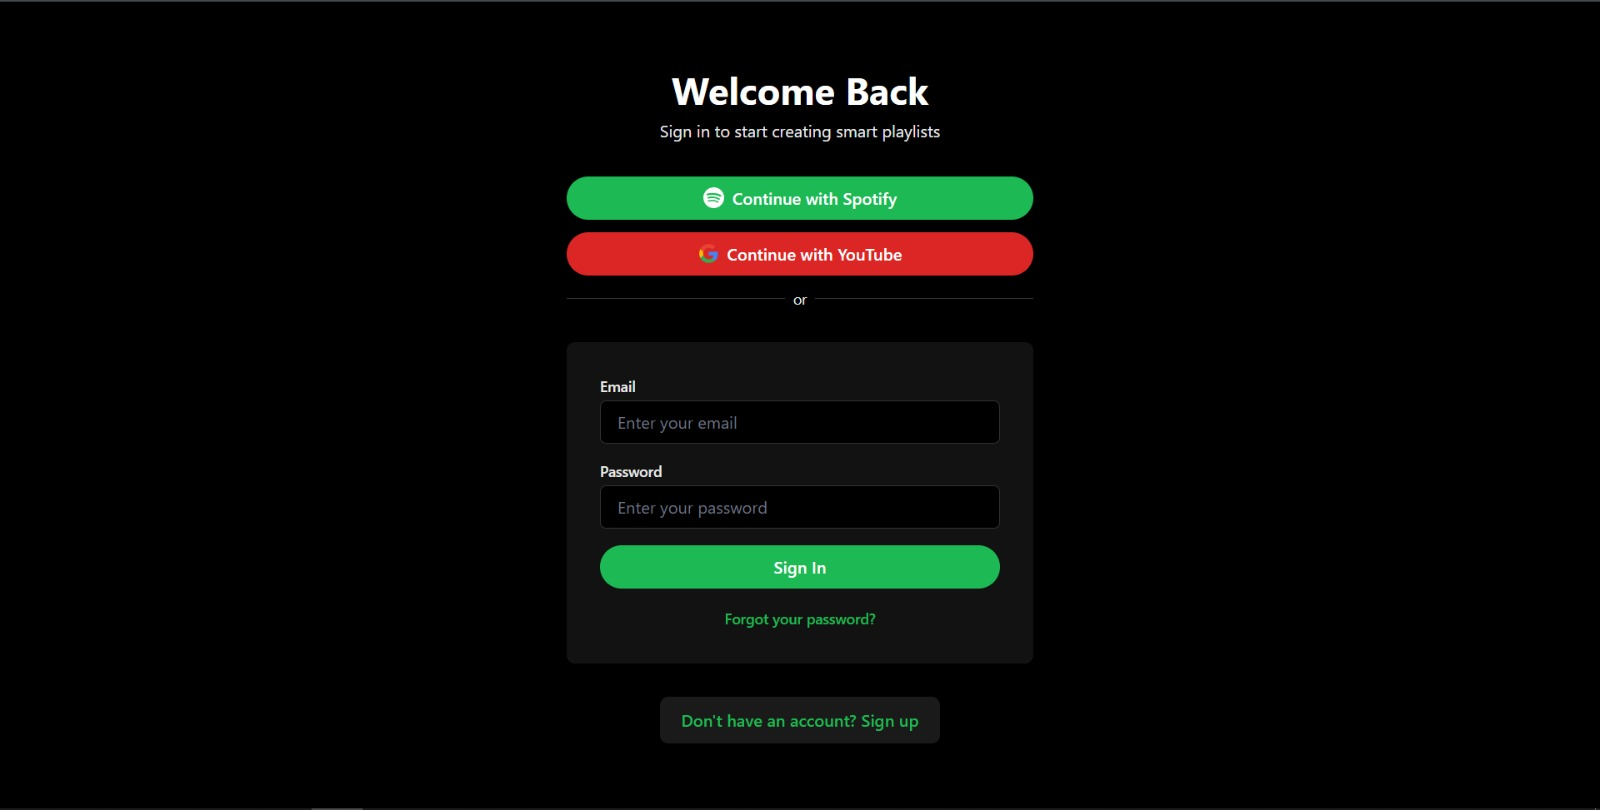
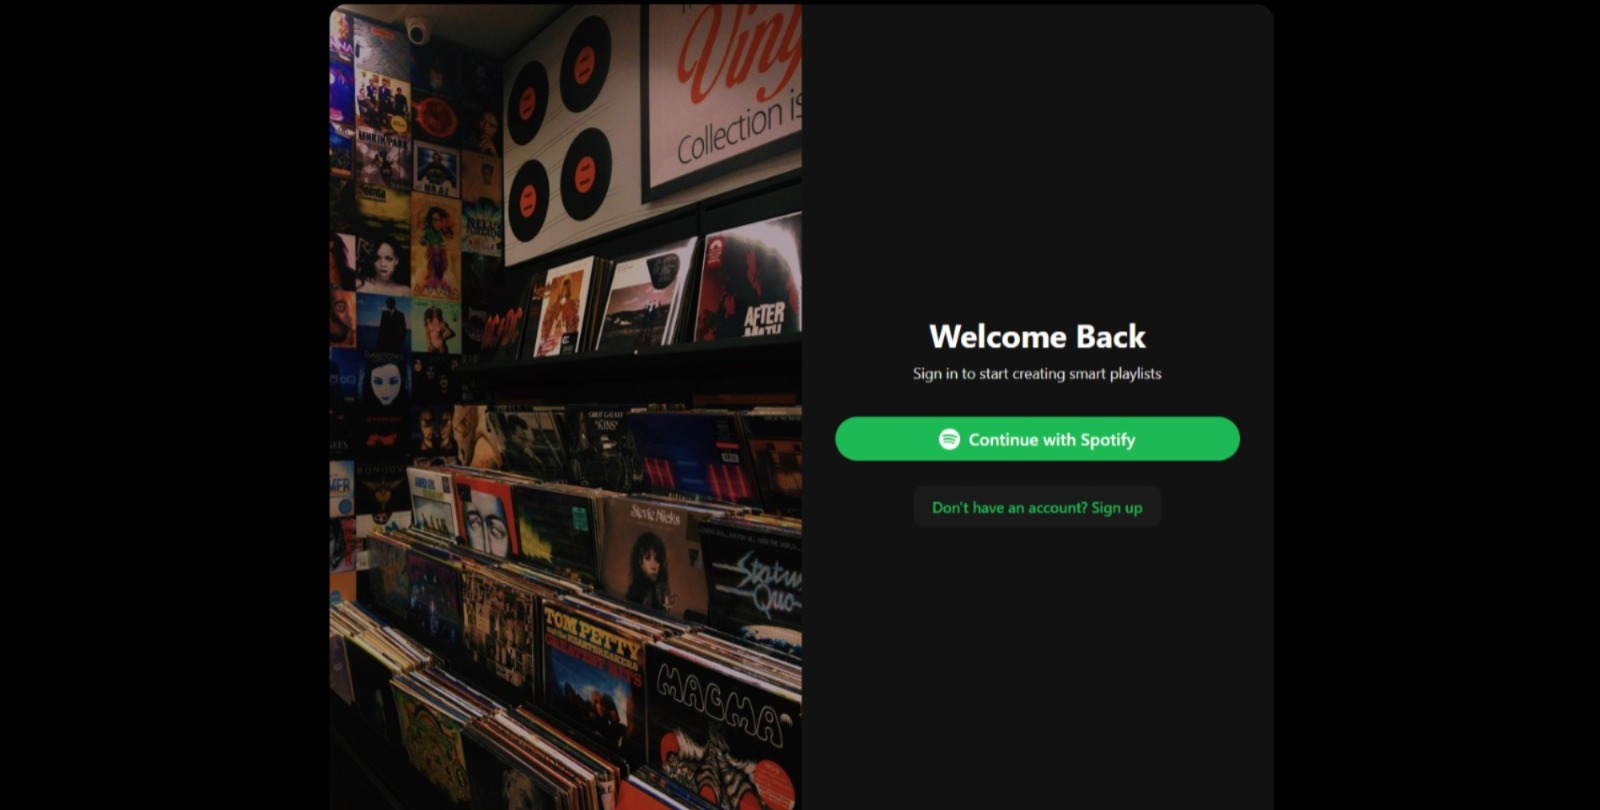
Homepage

Changed region(s): [[0.1875, 0.0, 0.7812, 1.0], [0.9688, 0.9877, 1.0, 1.0], [0.1875, 0.9877, 0.2188, 1.0]]

diff --git a/src/pages/auth/AuthPage.tsx b/src/pages/auth/AuthPage.tsx
@@ -1,8 +1,7 @@
 import { useState } from 'react';
 import { useNavigate } from 'react-router-dom';
-import { LoginForm } from './LoginForm';
-import { RegisterForm } from './RegisterForm';
 import { OAuthButtons } from '../../components/auth/OAuthButtons';
+import loginPhoto from '../../assets/images/loginphoto.jpg';
 
 export function AuthPage() {
   const [isLogin, setIsLogin] = useState(true);
@@ -13,42 +12,47 @@ export function AuthPage() {
   };
 
   return (
-    <div className="min-h-screen flex flex-col items-center justify-center bg-black px-4">
-      <div className="w-full max-w-md space-y-8">
-        {/* Logo and Title */}
-        <div className="text-center">
-          <h2 className="text-4xl font-bold text-white mb-2">
-            {isLogin ? 'Welcome Back' : 'Create Account'}
-          </h2>
-          <p className="text-[#E8E8E8]">
-            {isLogin
-              ? 'Sign in to start creating smart playlists'
-              : 'Join us to create amazing playlists'}
-          </p>
+    <div className="min-h-screen flex items-center justify-center bg-black p-4">
+      {/* Container Box */}
+      <div className="bg-[#121212] rounded-2xl overflow-hidden w-full max-w-4xl flex shadow-2xl">
+        {/* Left side - Image */}
+        <div className="w-1/2 relative">
+          <img
+            src={loginPhoto}
+            alt="Vinyl Record Collection"
+            className="w-full h-full object-cover"
+          />
+          <div className="absolute inset-0 bg-black bg-opacity-20" /> {/* Subtle overlay */}
         </div>
 
-        {/* OAuth Buttons */}
-        <OAuthButtons onSuccess={handleSuccess} />
+        {/* Right side - Login Content */}
+        <div className="w-1/2 p-8 flex flex-col justify-center">
+          {/* Logo and Title */}
+          <div className="text-center mb-8">
+            <h2 className="text-3xl font-bold text-white mb-2">
+              {isLogin ? 'Welcome Back' : 'Create Account'}
+            </h2>
+            <p className="text-[#E8E8E8] text-sm">
+              {isLogin
+                ? 'Sign in to start creating smart playlists'
+                : 'Join us to create amazing playlists'}
+            </p>
+          </div>
 
-        {/* Login/Register Form */}
-        <div className="bg-[#121212] rounded-lg p-8 shadow-xl">
-          {isLogin ? (
-            <LoginForm onSuccess={handleSuccess} />
-          ) : (
-            <RegisterForm onSuccess={handleSuccess} />
-          )}
-        </div>
+          {/* OAuth Buttons */}
+          <OAuthButtons onSuccess={handleSuccess} />
 
-        {/* Toggle Login/Register */}
-        <div className="text-center">
-          <button
-            onClick={() => setIsLogin(!isLogin)}
-            className="text-[#1DB954] hover:underline"
-          >
-            {isLogin
-              ? "Don't have an account? Sign up"
-              : 'Already have an account? Sign in'}
-          </button>
+          {/* Toggle Login/Register */}
+          <div className="text-center mt-6">
+            <button
+              onClick={() => setIsLogin(!isLogin)}
+              className="text-[#1DB954] text-sm hover:underline"
+            >
+              {isLogin
+                ? "Don't have an account? Sign up"
+                : 'Already have an account? Sign in'}
+            </button>
+          </div>
         </div>
       </div>
     </div>

diff --git a/src/pages/home/HomePage.tsx b/src/pages/home/HomePage.tsx
@@ -153,13 +153,19 @@ export function HomePage() {
           <h2 className="text-4xl font-bold text-center mb-16">
             How It <span className="text-[#1DB954]">Works</span>
           </h2>
-          <div className="grid md:grid-cols-5 gap-8">
+          <div className="max-w-4xl mx-auto space-y-16">
             {steps.map((step, index) => (
-              <div key={index} className="text-center flex flex-col items-center">
-                <div className="w-16 h-16 rounded-full bg-[#1DB954] flex items-center justify-center mx-auto mb-6 text-2xl font-bold">
-                  {index + 1}
+              <div key={index} className="flex flex-col items-center">
+                <div className="flex items-center gap-8 w-full">
+                  <div className="w-20 h-20 rounded-full bg-[#1DB954] flex items-center justify-center text-3xl font-bold flex-shrink-0">
+                    {index + 1}
+                  </div>
+                  <div className="flex-grow">
+                    <h3 className="text-2xl font-semibold mb-3">{step.title}</h3>
+                    <p className="text-[#E8E8E8] text-lg">{step.description}</p>
+                  </div>
                 </div>
-                <div className="relative w-full aspect-[16/9] mb-6 rounded-lg overflow-hidden shadow-xl">
+                <div className="relative w-full aspect-[16/9] mt-8 rounded-lg overflow-hidden shadow-2xl">
                   <img
                     src={step.image}
                     alt={step.title}
@@ -167,8 +173,6 @@ export function HomePage() {
                   />
                   <div className="absolute inset-0 bg-black/20 pointer-events-none"></div>
                 </div>
-                <h3 className="text-xl font-semibold mb-3">{step.title}</h3>
-                <p className="text-[#E8E8E8]">{step.description}</p>
               </div>
             ))}
           </div>
@@ -245,6 +249,7 @@ const steps = [
     description: 'Create your account and set your music preferences',
     image: '/loginpage.jpeg'
   },
+  
   {
     title: 'Explore Homepage',
     description: 'Browse through our features and discover what we offer',
@@ -262,7 +267,7 @@ const steps = [
   },
   {
     title: 'Export & Share',
-    description: 'Export to your favorite platform and share with friends',
+    description: 'Export to Spotify and share with friends (YouTube export coming soon!)',
     image: '/export.jpeg'
   }
 ];

diff --git a/src/components/auth/OAuthButtons.tsx b/src/components/auth/OAuthButtons.tsx
@@ -37,31 +37,6 @@ export function OAuthButtons({ onSuccess }: OAuthButtonsProps) {
           {loading === 'spotify' ? 'Connecting...' : 'Continue with Spotify'}
         </span>
       </button>
-
-      <button
-        onClick={() => handleOAuthSignIn('google')}
-        disabled={loading !== null}
-        className="w-full flex items-center justify-center space-x-2 py-2 px-4 bg-red-600 text-white rounded-full font-semibold hover:bg-opacity-90 transition disabled:opacity-50"
-      >
-        <svg className="w-5 h-5" viewBox="0 0 24 24" fill="currentColor">
-          <path d="M22.56 12.25c0-.78-.07-1.53-.2-2.25H12v4.26h5.92c-.26 1.37-1.04 2.53-2.21 3.31v2.77h3.57c2.08-1.92 3.28-4.74 3.28-8.09z" fill="#4285F4"/>
-          <path d="M12 23c2.97 0 5.46-.98 7.28-2.66l-3.57-2.77c-.98.66-2.23 1.06-3.71 1.06-2.86 0-5.29-1.93-6.16-4.53H2.18v2.84C3.99 20.53 7.7 23 12 23z" fill="#34A853"/>
-          <path d="M5.84 14.09c-.22-.66-.35-1.36-.35-2.09s.13-1.43.35-2.09V7.07H2.18C1.43 8.55 1 10.22 1 12s.43 3.45 1.18 4.93l2.85-2.22.81-.62z" fill="#FBBC05"/>
-          <path d="M12 5.38c1.62 0 3.06.56 4.21 1.64l3.15-3.15C17.45 2.09 14.97 1 12 1 7.7 1 3.99 3.47 2.18 7.07l3.66 2.84c.87-2.6 3.3-4.53 6.16-4.53z" fill="#EA4335"/>
-        </svg>
-        <span>
-          {loading === 'google' ? 'Connecting...' : 'Continue with YouTube'}
-        </span>
-      </button>
-
-      <div className="relative">
-        <div className="absolute inset-0 flex items-center">
-          <div className="w-full border-t border-[#323232]"></div>
-        </div>
-        <div className="relative flex justify-center text-sm">
-          <span className="px-2 bg-black text-[#E8E8E8]">or</span>
-        </div>
-      </div>
     </div>
   );
 } 

diff --git a/src/pages/auth/SignupPage.tsx b/src/pages/auth/SignupPage.tsx
@@ -106,13 +106,7 @@ export function SignupPage() {
               <span className="sr-only">Sign up with Spotify</span>
               Spotify
             </button>
-            <button
-              onClick={() => handleProviderSignIn('google')}
-              className="w-full inline-flex justify-center py-2 px-4 border border-gray-300 rounded-md shadow-sm bg-white text-sm font-medium text-gray-500 hover:bg-gray-50"
-            >
-              <span className="sr-only">Sign up with Google</span>
-              Google
-            </button>
+            
           </div>
         </div>
       </div>

diff --git a/src/pages/auth/LoginPage.tsx b/src/pages/auth/LoginPage.tsx
@@ -95,13 +95,7 @@ export function LoginPage() {
               <span className="sr-only">Sign in with Spotify</span>
               Spotify
             </button>
-            <button
-              onClick={() => handleProviderSignIn('google')}
-              className="w-full inline-flex justify-center py-2 px-4 border border-gray-300 rounded-md shadow-sm bg-white text-sm font-medium text-gray-500 hover:bg-gray-50"
-            >
-              <span className="sr-only">Sign in with Google</span>
-              Google
-            </button>
+            
           </div>
         </div>
       </div>
